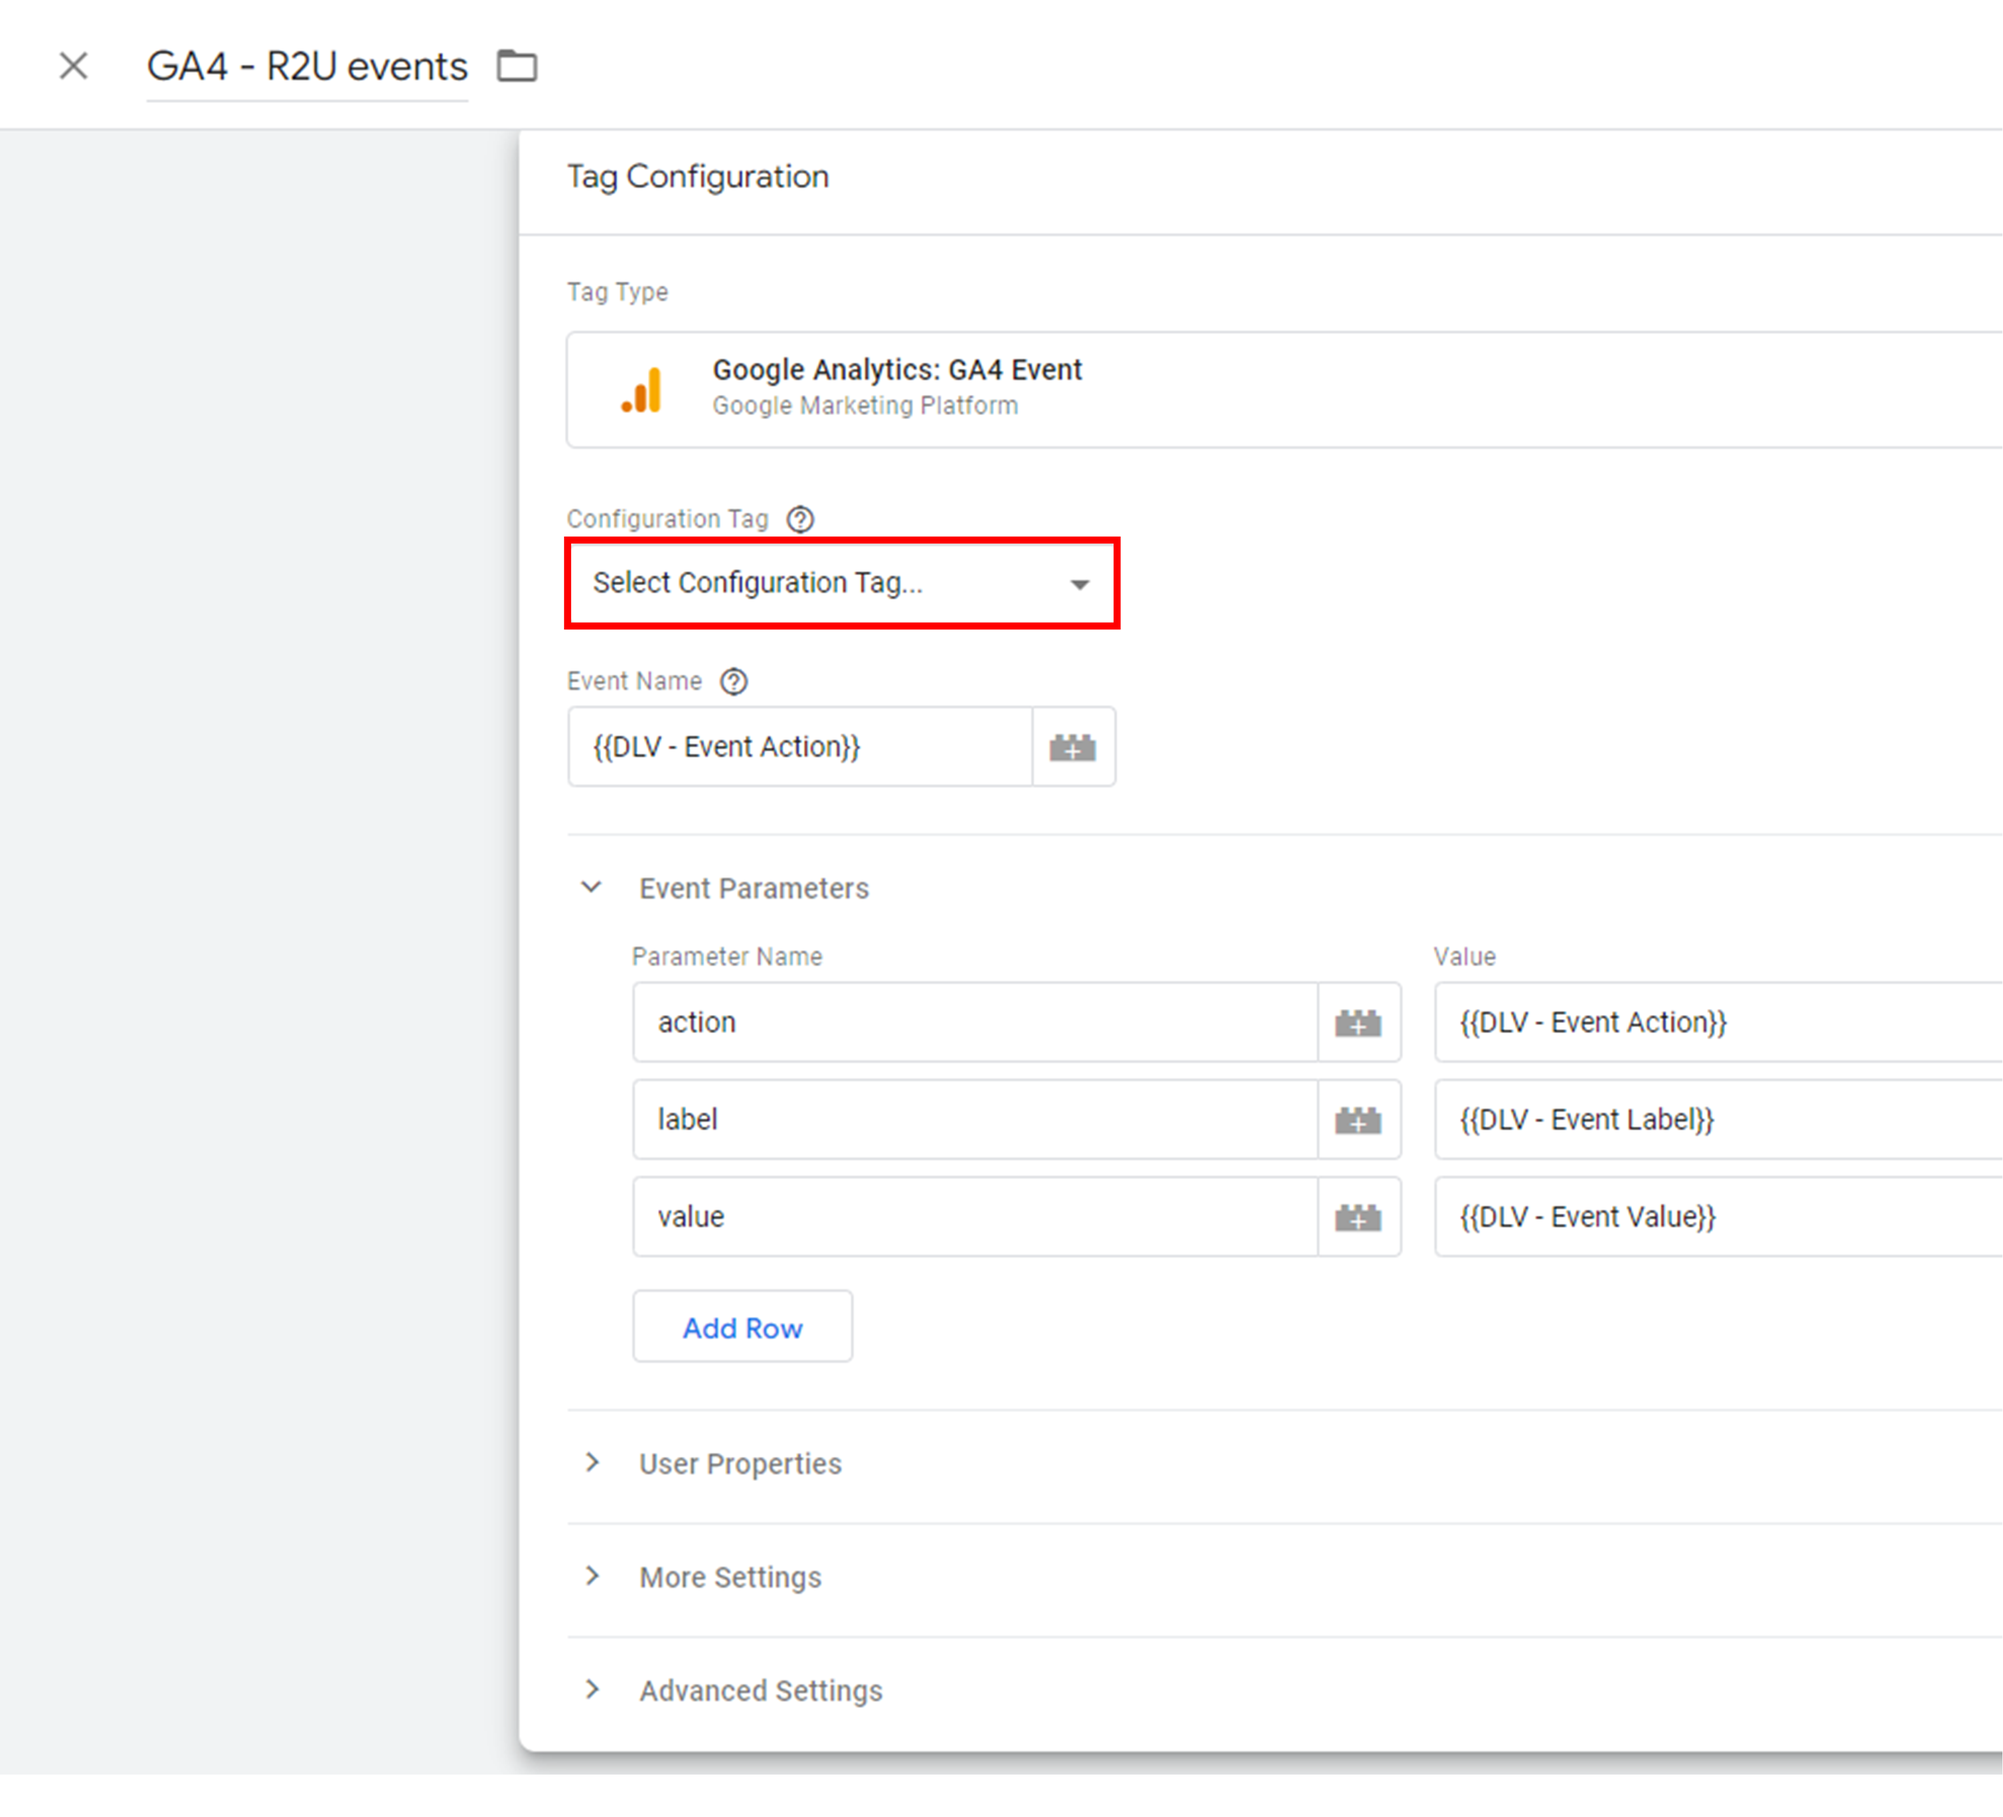
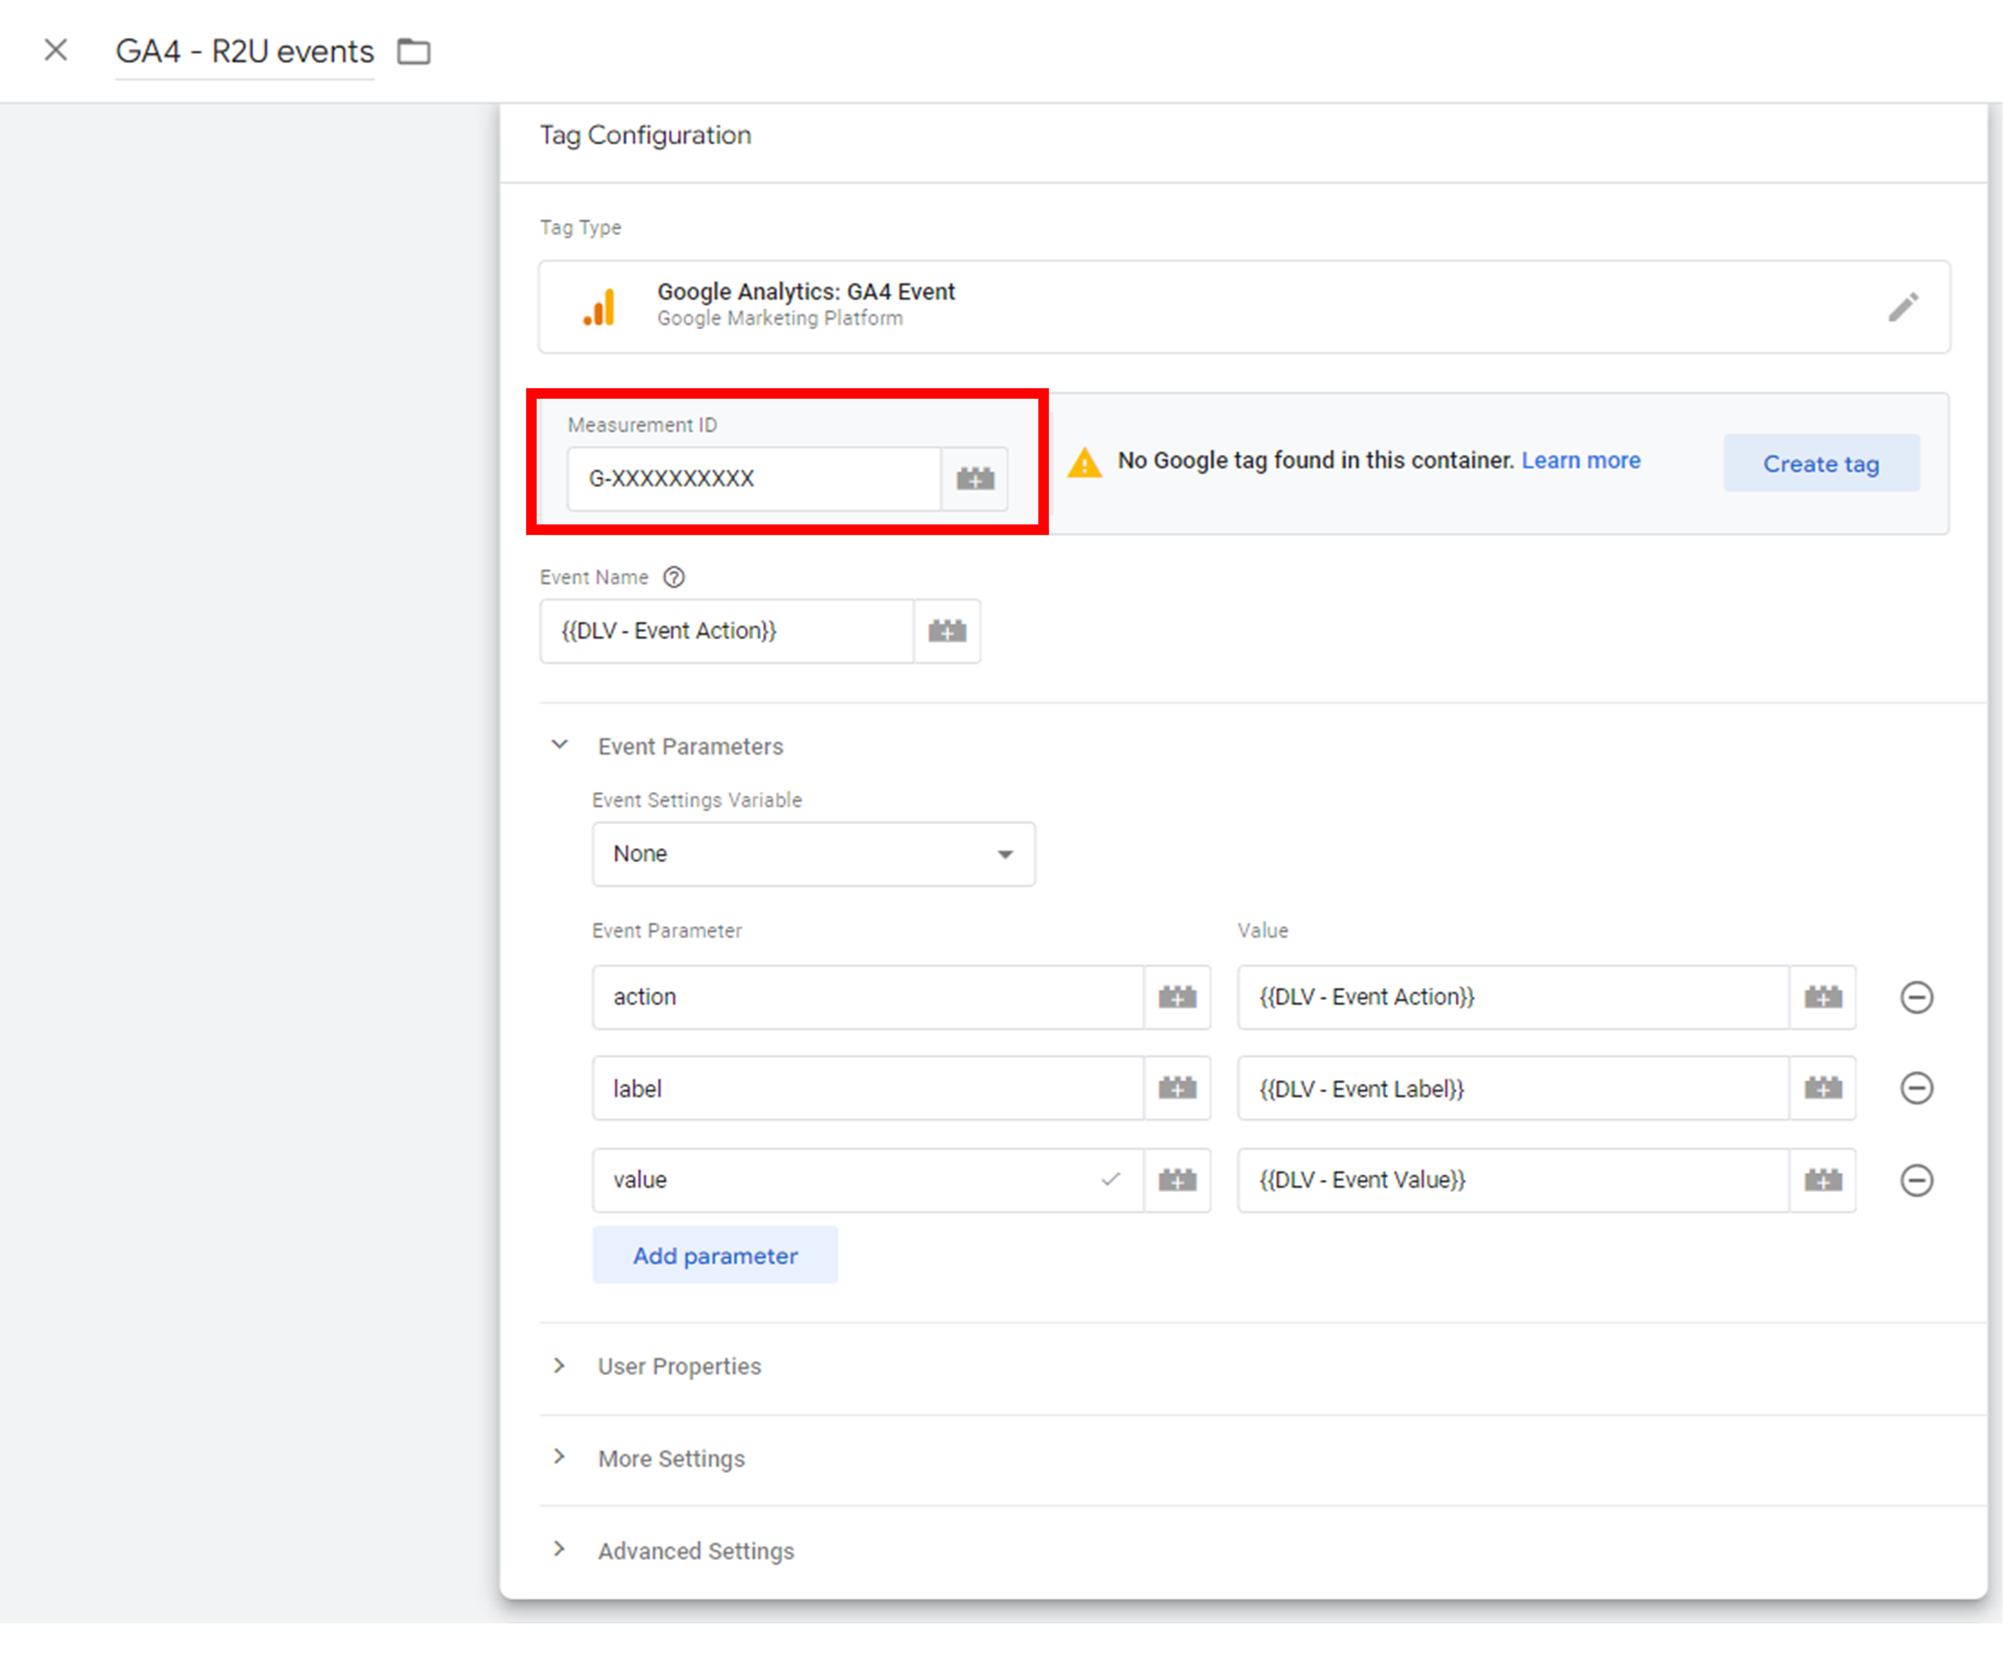
Analytics documentation update (#69)
* feat: update GTM JSON and setup images

* feat: update documentation

diff --git a/i18n/pt/docusaurus-plugin-content-docs/current/javascript/analytics.md b/i18n/pt/docusaurus-plugin-content-docs/current/javascript/analytics.md
@@ -39,7 +39,7 @@ Os passos a seguir descrevem as configurações para que esses dados estejam dis
     </p>
   </div>
 
-- Configure a tag GA4 - R2U events para usar a configuração de Tag do GA4
+- Configure a tag GA4 - R2U events com o Measurement ID do GA4 para enviar os eventos
 
    <div>
     <p float="left">

diff --git a/docs/javascript/analytics.md b/docs/javascript/analytics.md
@@ -40,7 +40,7 @@ The necessary configuration steps are described bellow such that the data is ava
     </p>
   </div>
 
-- Configure the tag GA4 - R2U events to use the GA4 Tag configuration
+- Configure the tag GA4 - R2U events with the GA4 Measurement ID to send the events
 
    <div>
     <p float="left">
